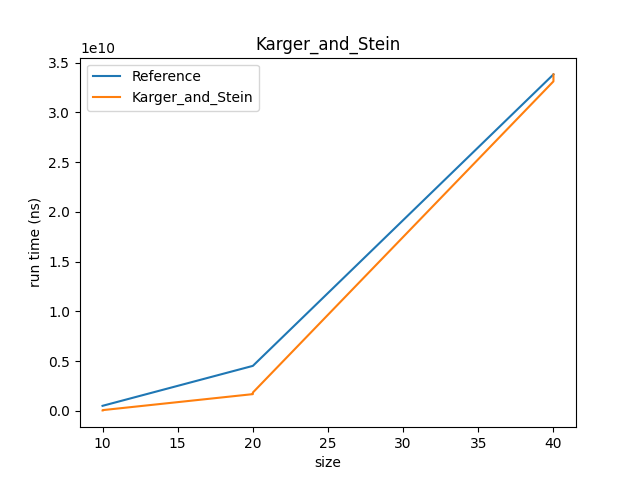
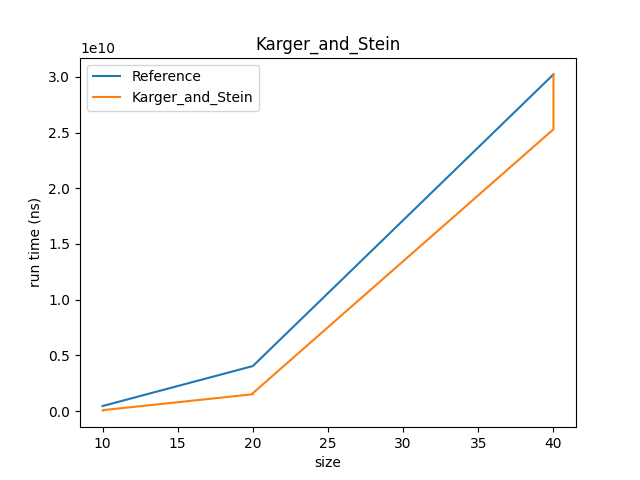
stoerWagner iteration to 5, optimized Karger

diff --git a/Lab3/main.py b/Lab3/main.py
@@ -20,7 +20,7 @@ def measureTime(Graphs: List[Graph], Function, Weights, Time, Discovery_time):
     K : List[Tuple[int,int]] = []
     temp_time = 0  # List of times
     if Function.__name__ == "stoerWagner":
-        iterations = 10
+        iterations = 5
     else: iterations = 1  # Iterations
     current: int = 1  # Progress bar's counter
     start_time_bar = perf_counter_ns()
@@ -35,13 +35,12 @@ def measureTime(Graphs: List[Graph], Function, Weights, Time, Discovery_time):
 
             start_time = perf_counter_ns()
 
-            Result, D_time, k_iterations = Function(graph)
+            Result, D_time = Function(graph)
 
             end_time = perf_counter_ns()
             Results.append(Result)
             discovered_times.append(D_time - start_time)
             temp_time.append(end_time - start_time)
-            K.append(k_iterations)
             # Prints a progress bar for the specific function
             progress_bar(
                 current, (len(Graphs) * iterations), perf_counter_ns() - start_time_bar, Function.__name__
@@ -53,9 +52,7 @@ def measureTime(Graphs: List[Graph], Function, Weights, Time, Discovery_time):
         Weights.append(min(Results))
         # print(len(Weights), len(Discovery_time))
         Discovery_time.append(discovered_times[Results.index(min(Results))])
-    print("\n")
-    print(K)
-    print("\n")
+
     return Time, Weights
 
 
@@ -128,7 +125,7 @@ def main():
     Graphs: List[Graph] = []
     foldername = "dataset"
     optimal_sol = []
-    for filename in sorted(os.listdir(foldername)):  # Use [:x] to set a limit
+    for filename in sorted(os.listdir(foldername))[:10]:  # Use [:x] to set a limit
 
         G = Graph.initialize_from_file(foldername + "/" + filename)
         Graphs.append(G)

diff --git a/Lab3/Karger_and_Stein.py b/Lab3/Karger_and_Stein.py
@@ -16,17 +16,7 @@ def Karger_and_Stein(G: Graph, k: int = 0) -> float:
     # Setting k = n
     if k == 0: k = int(math.log2(G.dimension)**2)  
     starting_time = perf_counter_ns()
-    iterations = 0
     for i in range(k):
-
-        # Setting a timeout 
-        current_time = perf_counter_ns()
-        # Computing how many minutes have passed.
-        toMinute = (current_time-starting_time) / (60 * 10**9) 
-        # If requires more than 15 minutes breaks the iterations
-        if toMinute >= 15: 
-            iterations = i 
-            break
 
         # Passing a copy and not a reference
         (D, W) = G.getD_W()
@@ -40,10 +30,9 @@ def Karger_and_Stein(G: Graph, k: int = 0) -> float:
             # Taking the current time, which corresponds to the time
             # when the minimum cut was found
             discovery_time = perf_counter_ns()
-        iterations = i + 1
-        
-    return minimumDistance, discovery_time, (iterations, k)
 
+        
+    return minimumDistance, discovery_time
 
 def Random_Select(C: List[float]):
 
@@ -146,9 +135,11 @@ def Recursive_Contract(G: Tuple[List[float], List[List[float]]]):
 
     Results: List[int] = []
     t = math.ceil((len(V) / math.sqrt(2)) + 1)
-
+    (D_, W_) = Contract(G, t)
     for _ in range(2):
-        G_i = Contract(G, t)
-        Results.append(Recursive_Contract(G_i))
+        D = D_.copy()
+        W = [array.copy() for array in W_]
+        
+        Results.append(Recursive_Contract((D,W)))
 
     return min(Results)

diff --git a/Lab3/stoerWagner.py b/Lab3/stoerWagner.py
@@ -40,7 +40,7 @@ def stoerWagner(graph: Graph) -> Tuple[int, int, int]:
     )
     discovery_time = perf_counter_ns()
     minimumCutWeight: int = graph.cutWeight(cut1=flatten(toFlatten=minimumCut))
-    return minimumCutWeight, discovery_time, None 
+    return minimumCutWeight, discovery_time
 
 
 #  nodes, edges and weight function are inside the graph already, no need to pass them as parameters
